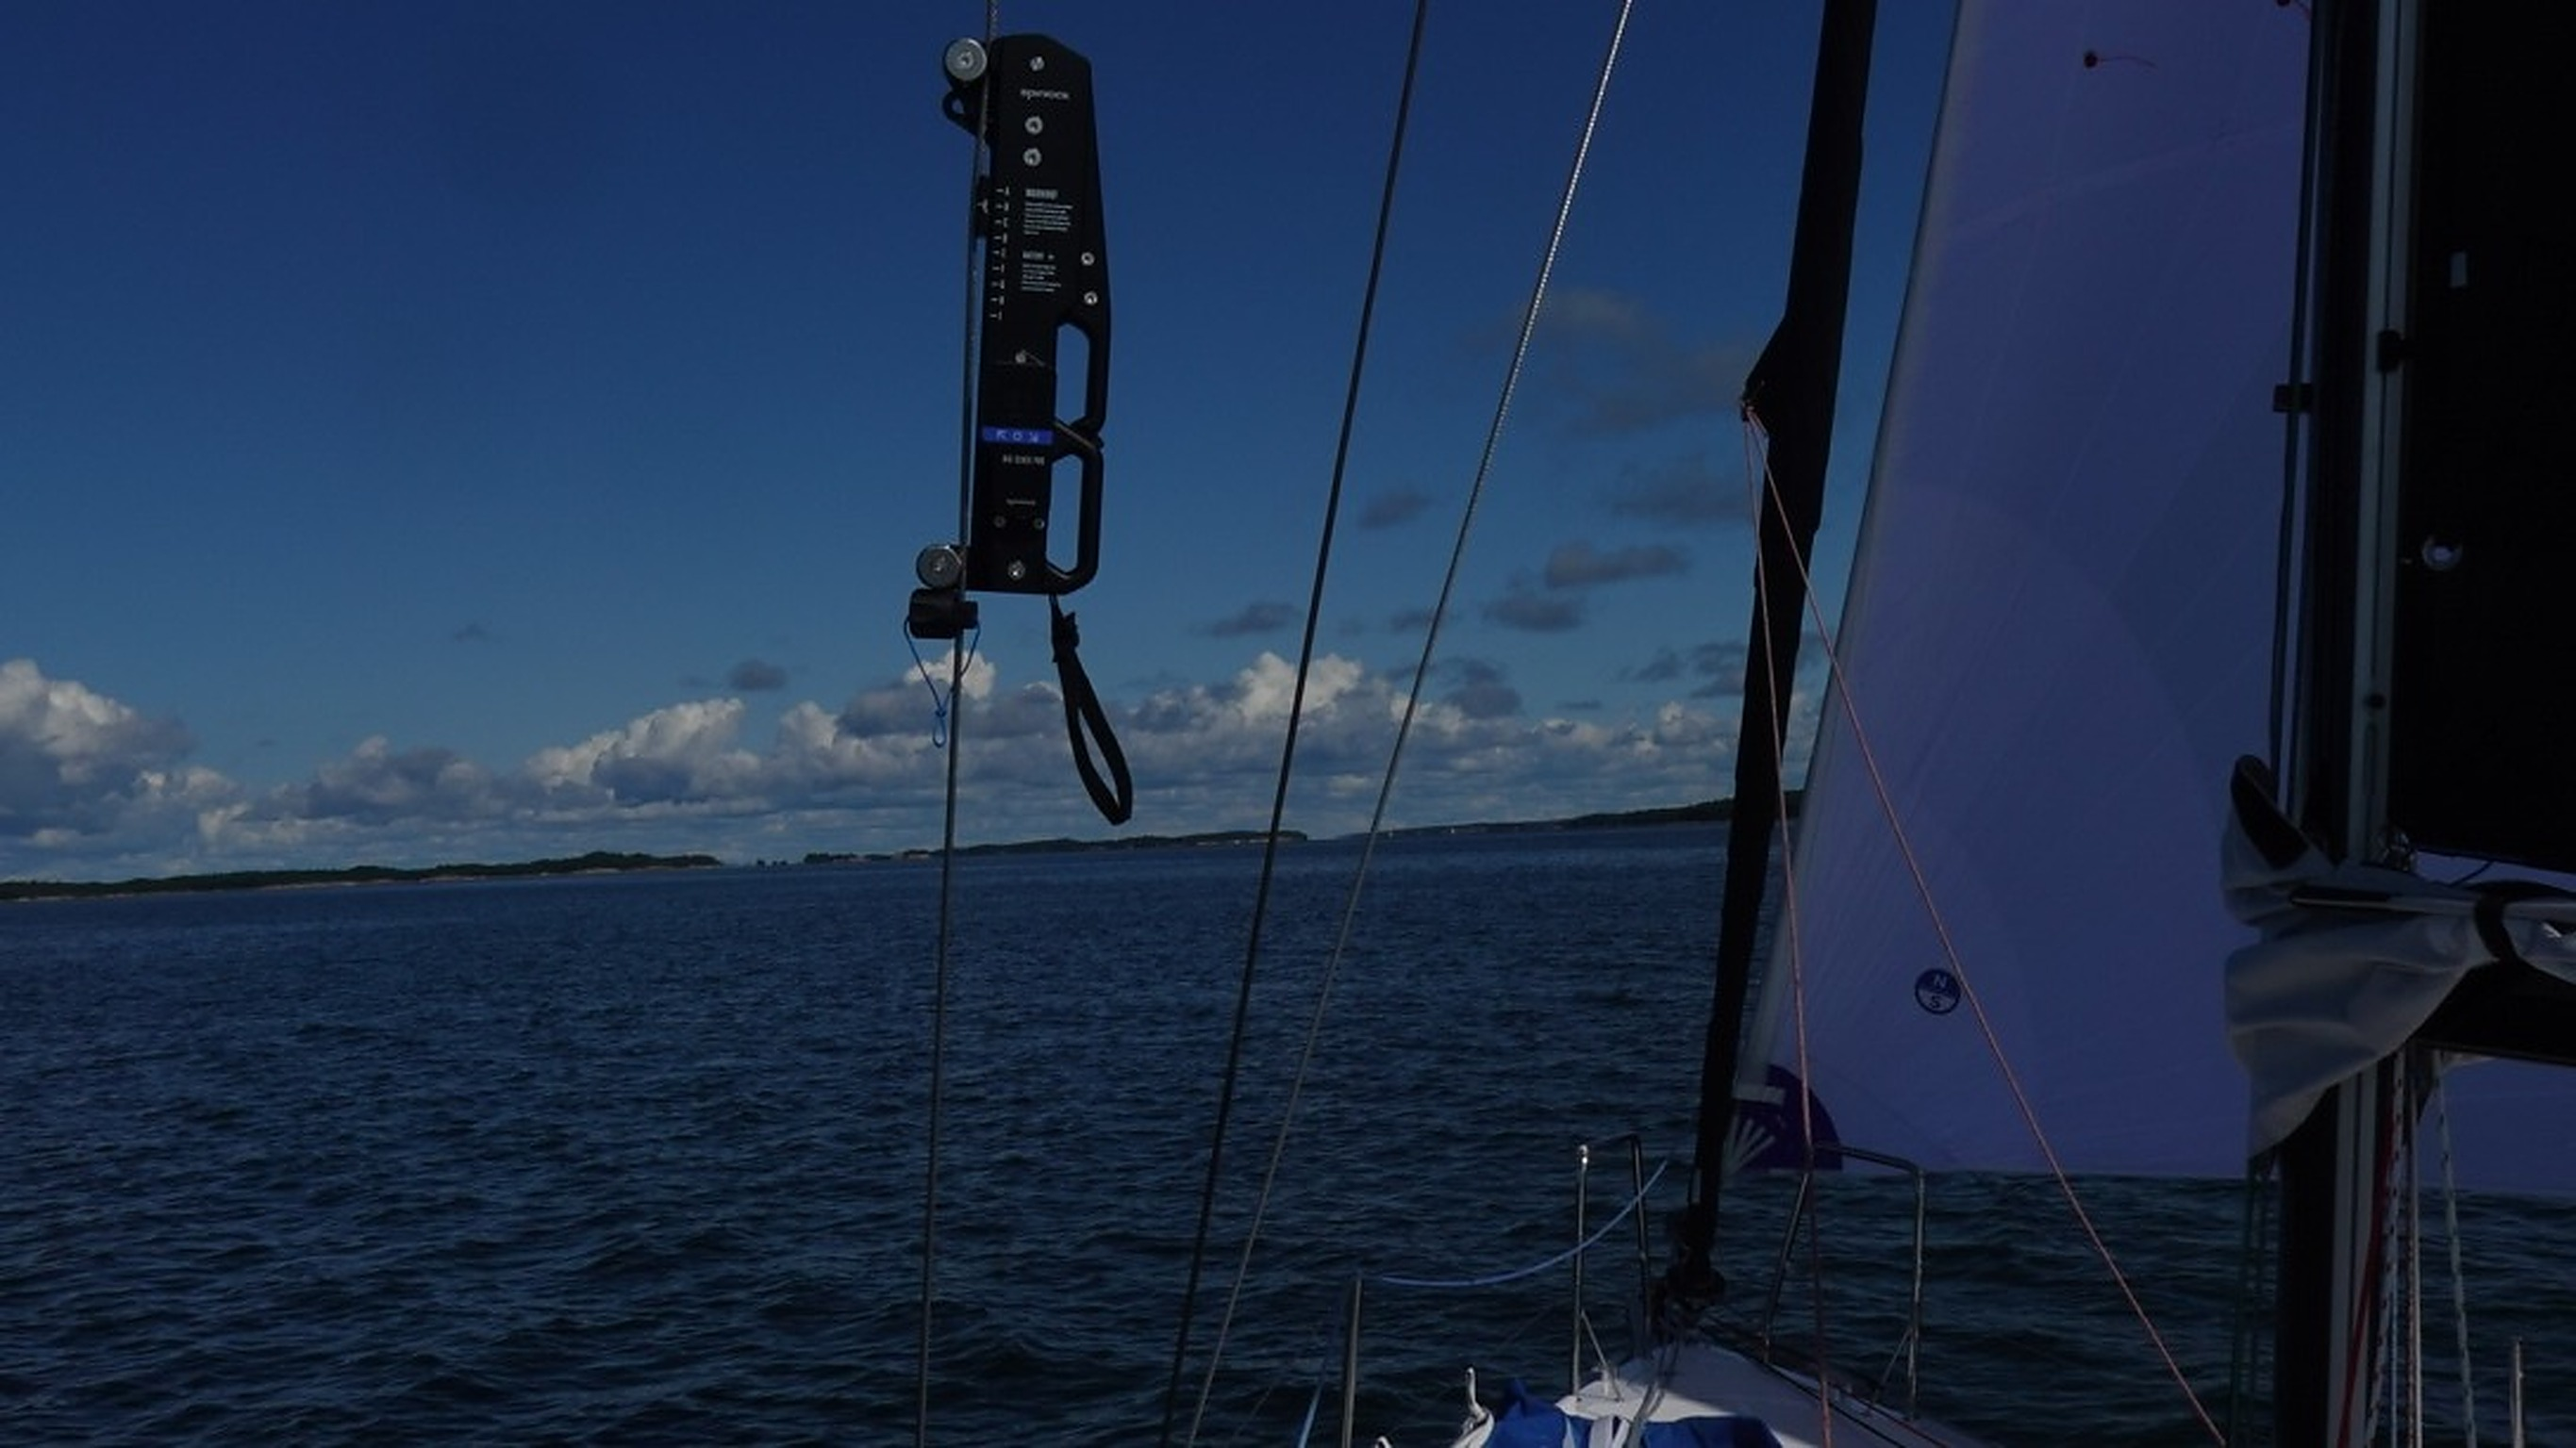
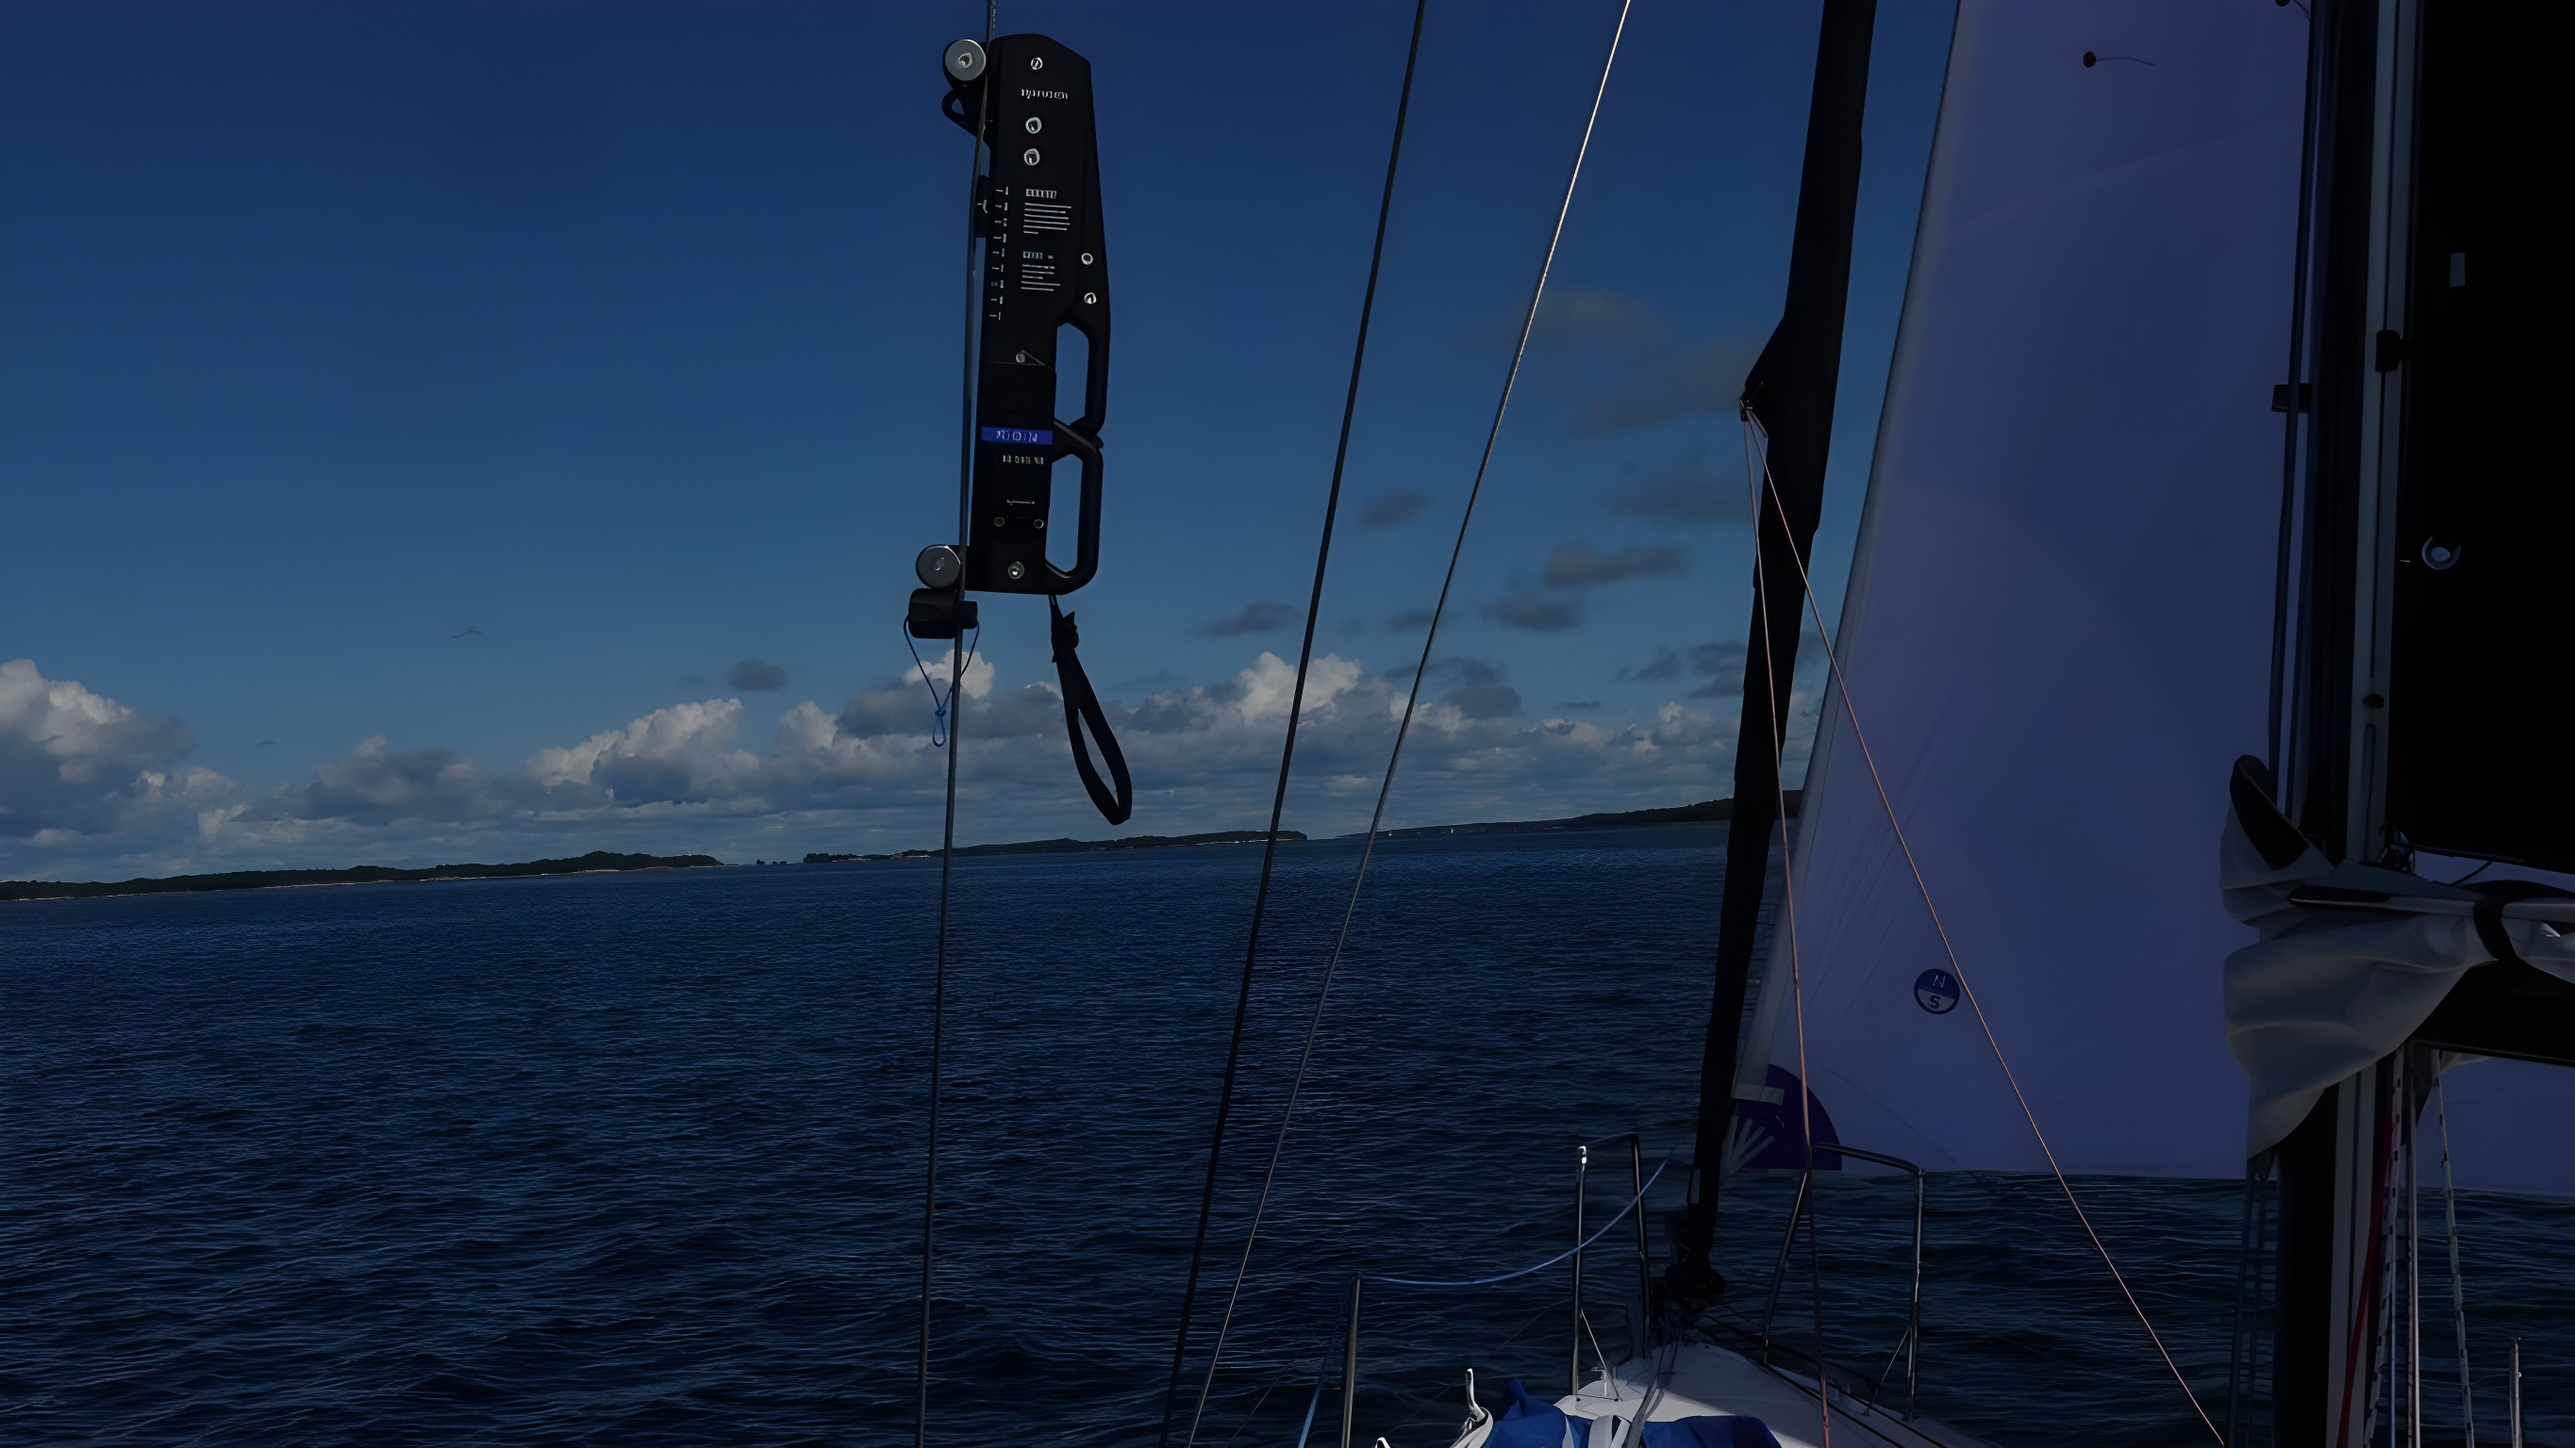
Real ML upscale for Mitattu photo, scrim back for rope-stock only
Installed Real-ESRGAN locally (CPU, no network transfer of any project
file - only inbound package/weight downloads) after the Higgsfield
upload path was blocked by the sandbox's data-exfiltration guard.
Compared its output against the previous Lanczos+unsharp version on
the original 1088x612 source before adopting it: genuine texture in
the water and sail fabric versus the resample's smoothed-over look.

rope-stock's photo alone gets its dark gradient scrim back, since it's
the one significantly brighter than its siblings and needs it for text
legibility - mast-work and maintenance stay exactly as uploaded, per
the earlier request to drop the filter there.

Claude-Session: https://claude.ai/code/session_01VKQCvMhofPBizT92xs5m9S

diff --git a/src/routes/ServicePlaceholder.jsx b/src/routes/ServicePlaceholder.jsx
@@ -9,6 +9,11 @@ const SERVICE_BACKGROUNDS = {
   maintenance: '/images/services/maintenance-bg.jpg',
 }
 
+// rope-stock's photo is far brighter than the other two - text needs a
+// scrim here to read as legibly as it does on mast-work/maintenance,
+// which stay filter-free.
+const SCRIM_SLUGS = new Set(['rope-stock'])
+
 export default function ServicePage() {
   const { slug } = useParams()
   const { t } = useLang()
@@ -23,12 +28,17 @@ export default function ServicePage() {
   return (
     <main className="relative z-0 overflow-hidden py-32 md:py-40">
       {bg && (
-        <img
-          src={bg}
-          alt=""
-          aria-hidden="true"
-          className="pointer-events-none absolute inset-0 -z-10 h-full w-full object-cover"
-        />
+        <>
+          <img
+            src={bg}
+            alt=""
+            aria-hidden="true"
+            className="pointer-events-none absolute inset-0 -z-10 h-full w-full object-cover"
+          />
+          {SCRIM_SLUGS.has(slug) && (
+            <div className="pointer-events-none absolute inset-0 -z-10 bg-[linear-gradient(180deg,rgba(10,24,38,0.72)_0%,rgba(7,17,25,0.88)_45%,rgba(4,7,11,0.96)_100%)]" />
+          )}
+        </>
       )}
       <motion.div
         initial={{ opacity: 0, y: 24 }}
